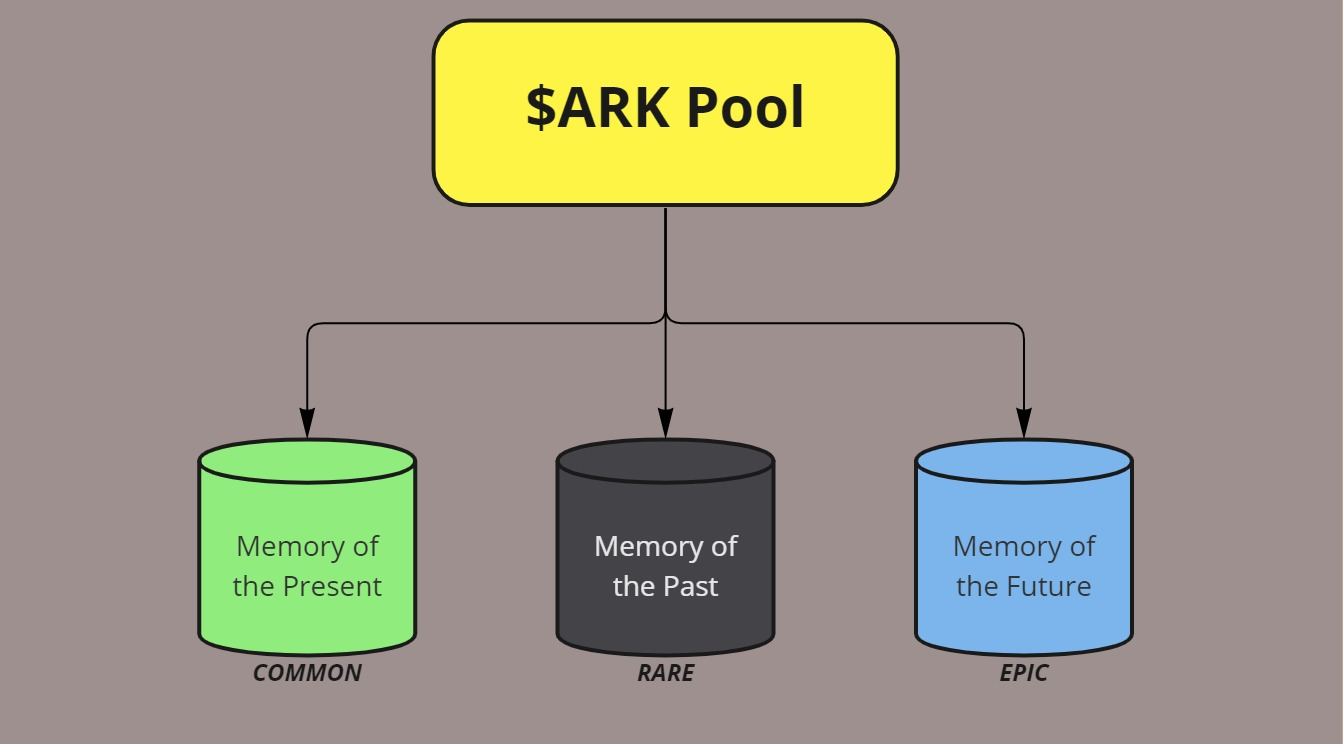
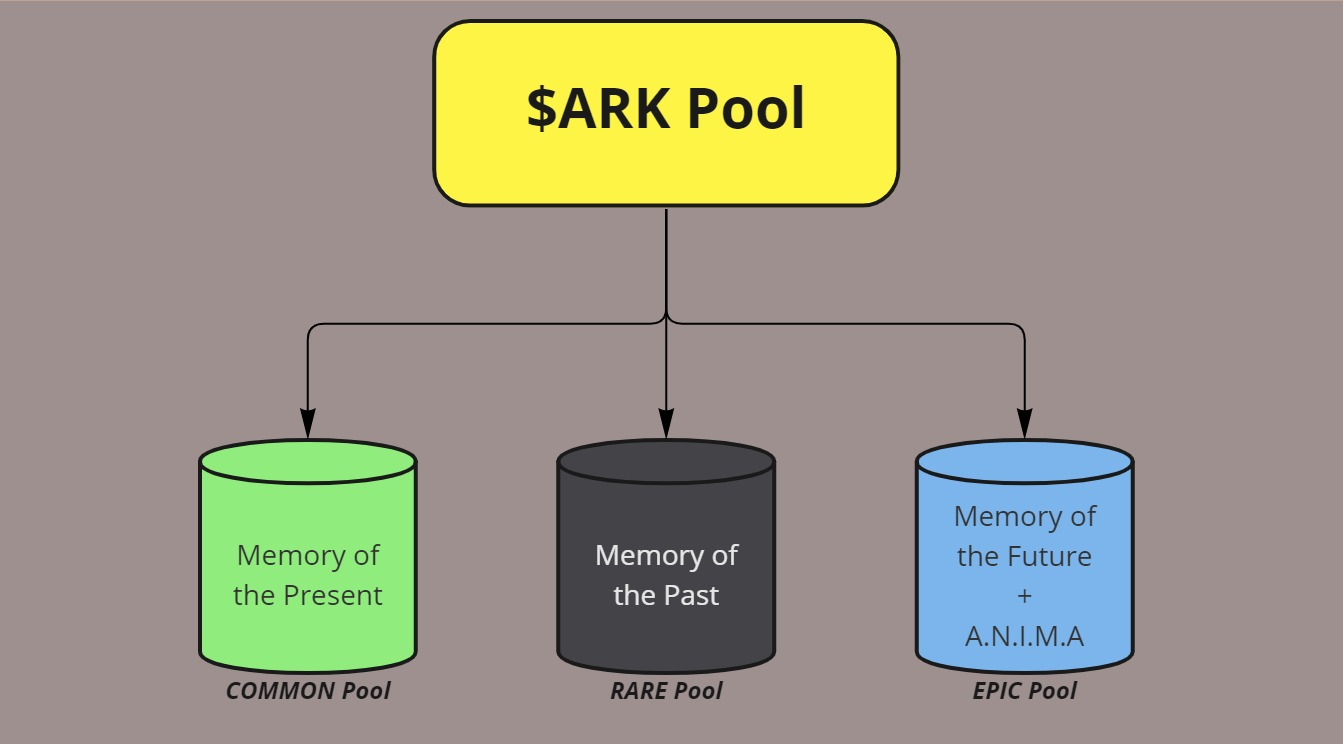
GitBook: [#324] No subject

diff --git a/injecting-new-nft-culture/usdark-tokenomics/README.md b/injecting-new-nft-culture/usdark-tokenomics/README.md
@@ -2,7 +2,7 @@
 
 ## <mark style="color:yellow;">$ARK Token</mark>
 
-$ARK token is the governance token for TCA ecosystem and can **only be minted** by staking Memory into the Timeline.&#x20;
+$ARK token is the governance and acts as a shareholder token for TCA ecosystem and can **only be minted** by staking Memory into the Staking Room.&#x20;
 
 {% hint style="success" %}
 _The total maximum supply of $ARK is capped at **7,000,000** tokens._
@@ -64,13 +64,25 @@ _After the initial mint of 25%, the remaining total supply will be emitted over 
 
 ![](<../../.gitbook/assets/Finance - ARK Pool FINAL.jpg>)
 
-There will be a limited amount of $ARK emitted per day and splitting it into four pools. Each __ pool represents one of the Memories rarity.&#x20;
+There will be a limited amount of $ARK emitted per day and splitting it into four pools. Each __ pool represents one of the Memory's rarity.
+
+{% hint style="success" %}
+_The higher the rarity, the fewer people are in the Pool, thus leading to more $ARK you can earn daily._
+{% endhint %}
+
+{% hint style="info" %}
+**For example, if each Pool has 1,000 $ARK**
+
+* **Common Pool** will have to share the 1,000 $ARK with 1,830 gen0 NFTs
+* **Rare Pool** will have to share the 1,000 $ARK with 915 gen0 NFTs
+* **Epic Pool** will have to share the 1,000 $ARK with 305 gen0 NFTs + 100 (A.N.I.M.A) NFTs
+{% endhint %}
 
 ### Treasury Funds - 5% (350,000 $ARK)
 
+* After we are well established, the Treasury Funds will be secured by 4/5 multisig wallet, consisting of 2 TCA Team members and 3 well-known community members
 * ArkDAO will have the opportunity to decide where to spend the Treasury Funds
 * TCA Team will not ever use nor take advantage of Treasury Funds
-* After we are well established, the Treasury Funds will be secured by 4/5 multisig wallet, consisting of 2 TCA Team members and 3 well-known community members
 
 ## <mark style="color:yellow;">ARK-Chamber</mark>
 
